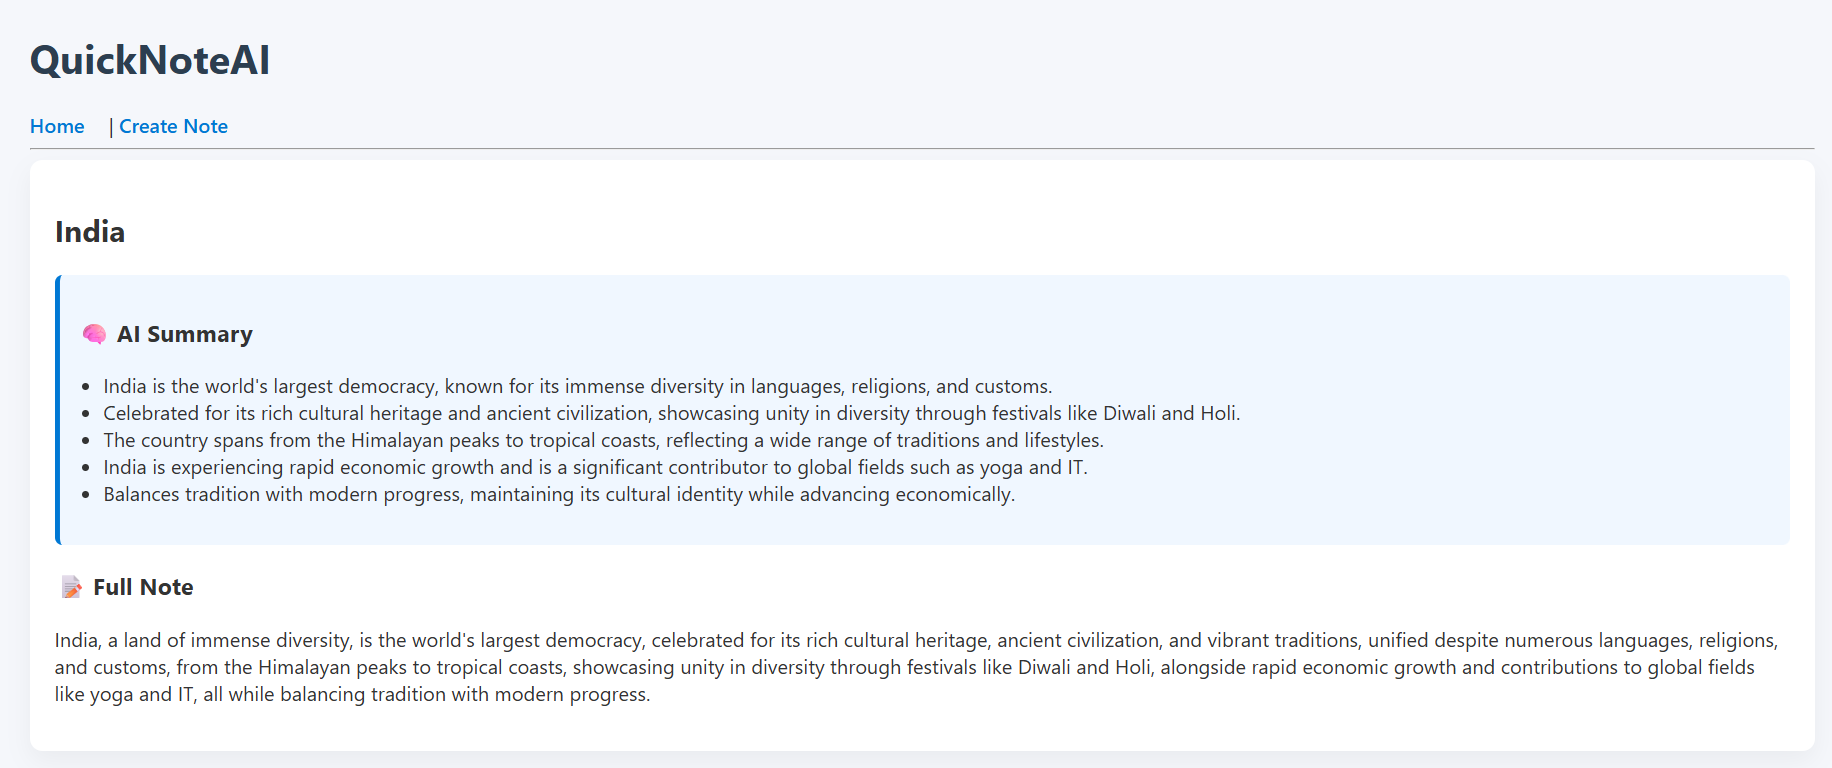
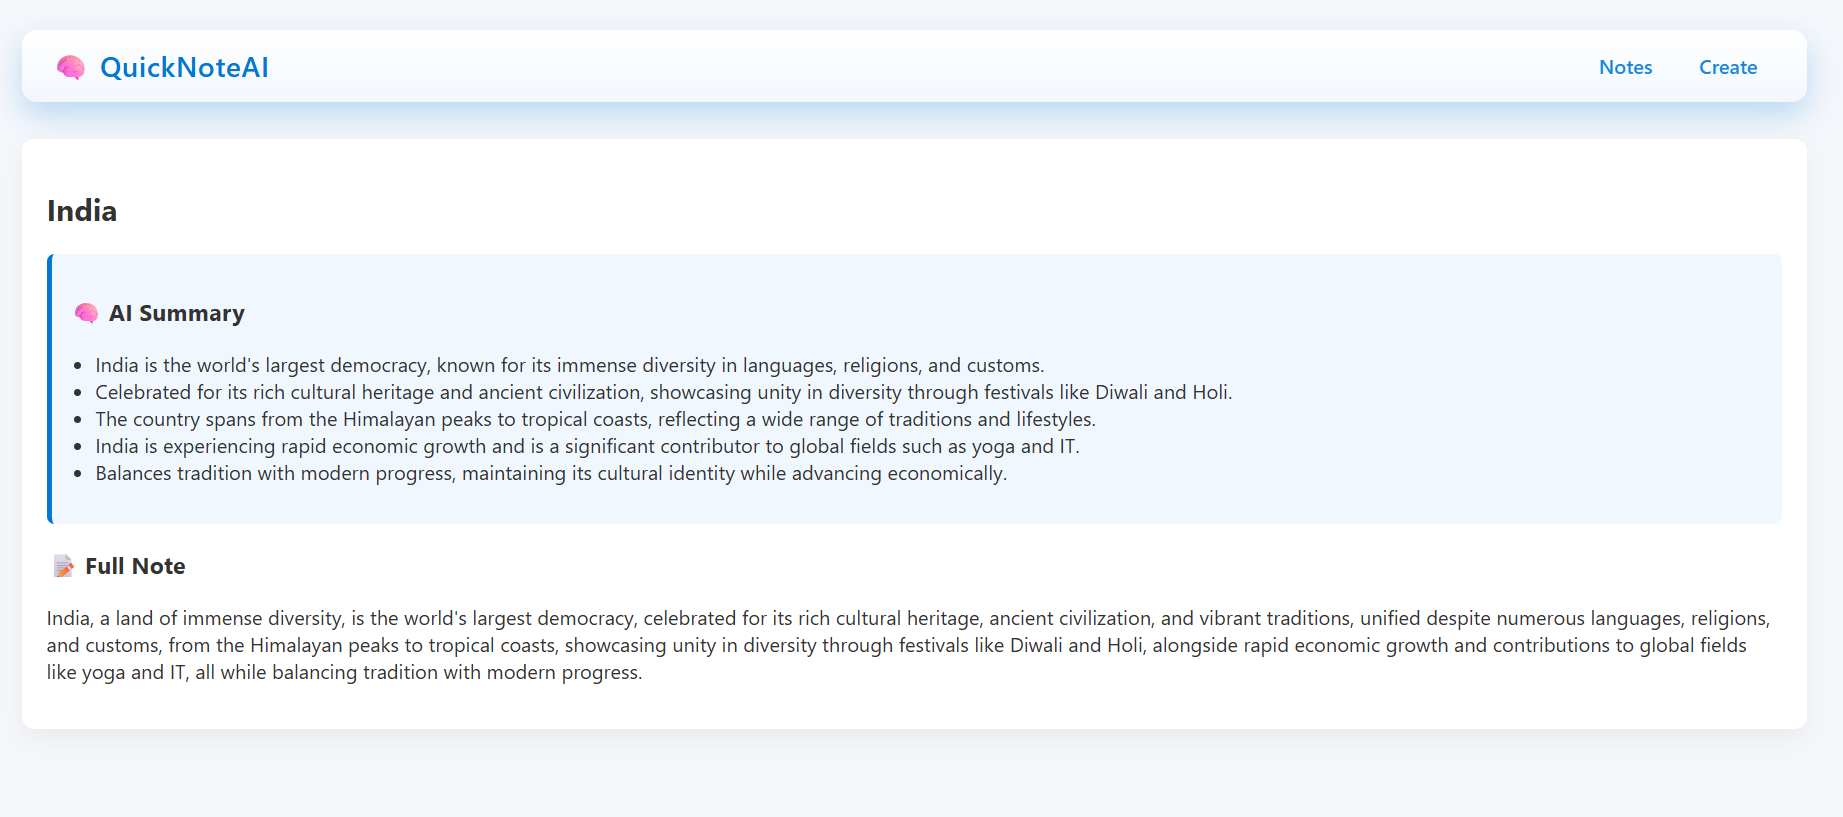
Improved UI

diff --git a/static/style.css b/static/style.css
@@ -67,3 +67,117 @@ nav a {
 .content-box p {
     white-space: pre-line;
 }
+
+/* Header */
+.app-header {
+    display: flex;
+    justify-content: space-between;
+    align-items: center;
+    background: linear-gradient(180deg, #ffffff 0%, #f3f7fd 100%);
+    padding: 14px 24px;
+    border-radius: 12px;
+    color: #0078d4;
+    margin-bottom: 30px;
+    box-shadow: 0 10px 25px rgba(0, 120, 212, 0.25);
+}
+
+.logo {
+    font-size: 1.4rem;
+    font-weight: 600;
+    display: flex;
+    align-items: center;
+}
+
+.logo span {
+    margin-left: 8px;
+    letter-spacing: 0.5px;
+}
+
+.app-header nav a {
+    color: #0078d4;
+    margin-left: 18px;
+    text-decoration: none;
+    font-weight: 500;
+    opacity: 0.9;
+}
+
+.app-header nav a:hover {
+    opacity: 1;
+    text-decoration: underline;
+}
+
+.divider {
+    display: none;
+}
+
+/* Create Note*/
+.form-card {
+    max-width: 700px;
+    margin: 0 auto;
+    background: #ffffff;
+    padding: 85px;
+    border-radius: 14px;
+    box-shadow: 0 10px 28px rgba(0,0,0,0.06);
+}
+
+.form-card h2 {
+    margin-top: 0;
+    margin-bottom: 25px;
+    color: #1f2937;
+}
+
+.note-form .form-group {
+    margin-bottom: 20px;
+}
+
+.note-form label {
+    display: block;
+    margin-bottom: 6px;
+    font-weight: 500;
+    color: #374151;
+}
+
+.note-form input,
+.note-form textarea {
+    width: 100%;
+    padding: 12px 14px;
+    font-size: 0.95rem;
+    border-radius: 10px;
+    border: 1px solid #d1d9e6;
+    background: #f9fbff;
+    transition: all 0.2s ease;
+}
+
+.note-form input::placeholder,
+.note-form textarea::placeholder {
+    color: #9aa4b2;
+}
+
+.note-form input:focus,
+.note-form textarea:focus {
+    outline: none;
+    border-color: #0078d4;
+    background: #ffffff;
+    box-shadow: 0 0 0 3px rgba(0,120,212,0.15);
+}
+
+.primary-btn {
+    background: #0078d4;
+    color: #ffffff;
+    border: none;
+    padding: 12px 22px;
+    border-radius: 10px;
+    font-size: 0.95rem;
+    font-weight: 500;
+    cursor: pointer;
+    transition: background 0.2s ease, transform 0.1s ease;
+}
+
+.primary-btn:hover {
+    background: #0063b1;
+    transform: translateY(-1px);
+}
+
+.primary-btn:active {
+    transform: translateY(0);
+}

diff --git a/templates/create_note.html b/templates/create_note.html
@@ -1,15 +1,35 @@
 {% extends "base.html" %}
 
 {% block content %}
-<h2>Create New Note</h2>
+<div class="form-card">
+    <h2>Create New Note</h2>
 
-<form method="POST">
-    <label>Title</label><br>
-    <input type="text" name="title" required><br><br>
+    <form method="POST" class="note-form">
+        <div class="form-group">
+            <label for="title">Title</label>
+            <input
+                type="text"
+                id="title"
+                name="title"
+                placeholder="Enter note title"
+                required
+            >
+        </div>
 
-    <label>Content</label><br>
-    <textarea name="content" rows="8" required></textarea><br><br>
+        <div class="form-group">
+            <label for="content">Content</label>
+            <textarea
+                id="content"
+                name="content"
+                rows="10"
+                placeholder="Write your note here..."
+                required
+            ></textarea>
+        </div>
 
-    <button type="submit">Save Note</button>
-</form>
+        <button type="submit" class="primary-btn">
+            Save Note
+        </button>
+    </form>
+</div>
 {% endblock %}

diff --git a/templates/base.html b/templates/base.html
@@ -5,12 +5,18 @@
     <link rel="stylesheet" href="{{ url_for('static', filename='style.css') }}">
 </head>
 <body>
-    <h1>QuickNoteAI</h1>
+    <header class="app-header">
+    <div class="logo">
+        🧠 <span>QuickNoteAI</span>
+    </div>
+
     <nav>
-        <a href="/">Home</a> |
-        <a href="/create">Create Note</a>
+        <a href="/">Notes</a>
+        <a href="/create">Create</a>
     </nav>
-    <hr>
+</header>
+
+<hr class="divider">
     {% block content %}{% endblock %}
 </body>
 </html>
